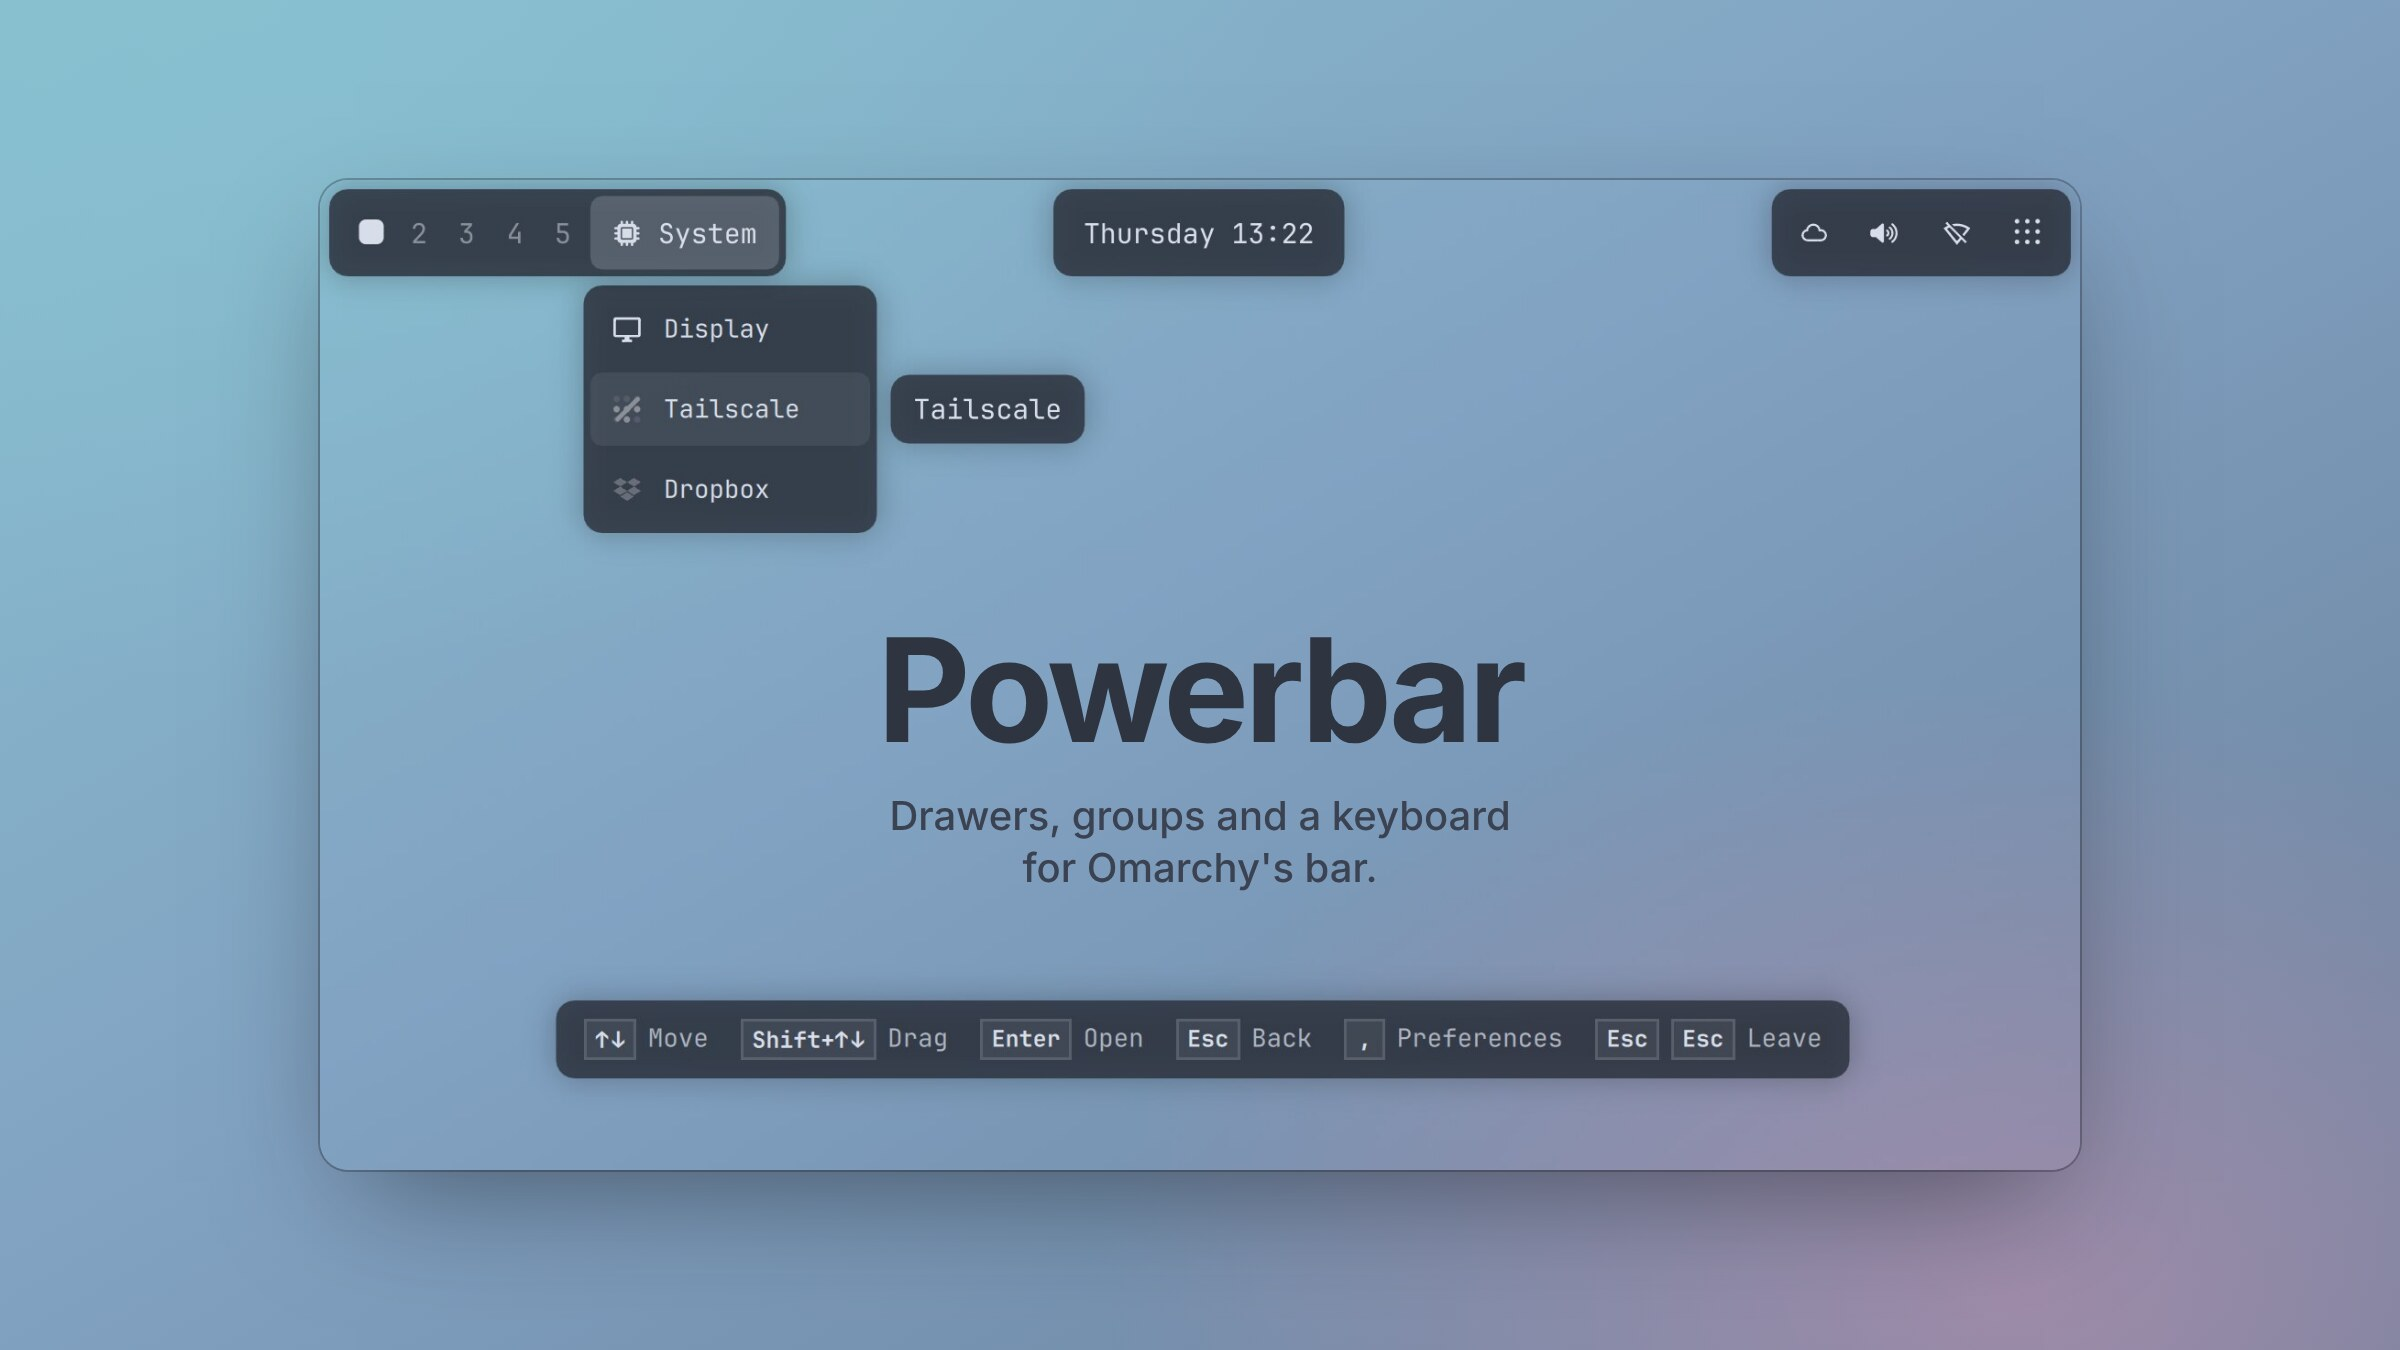
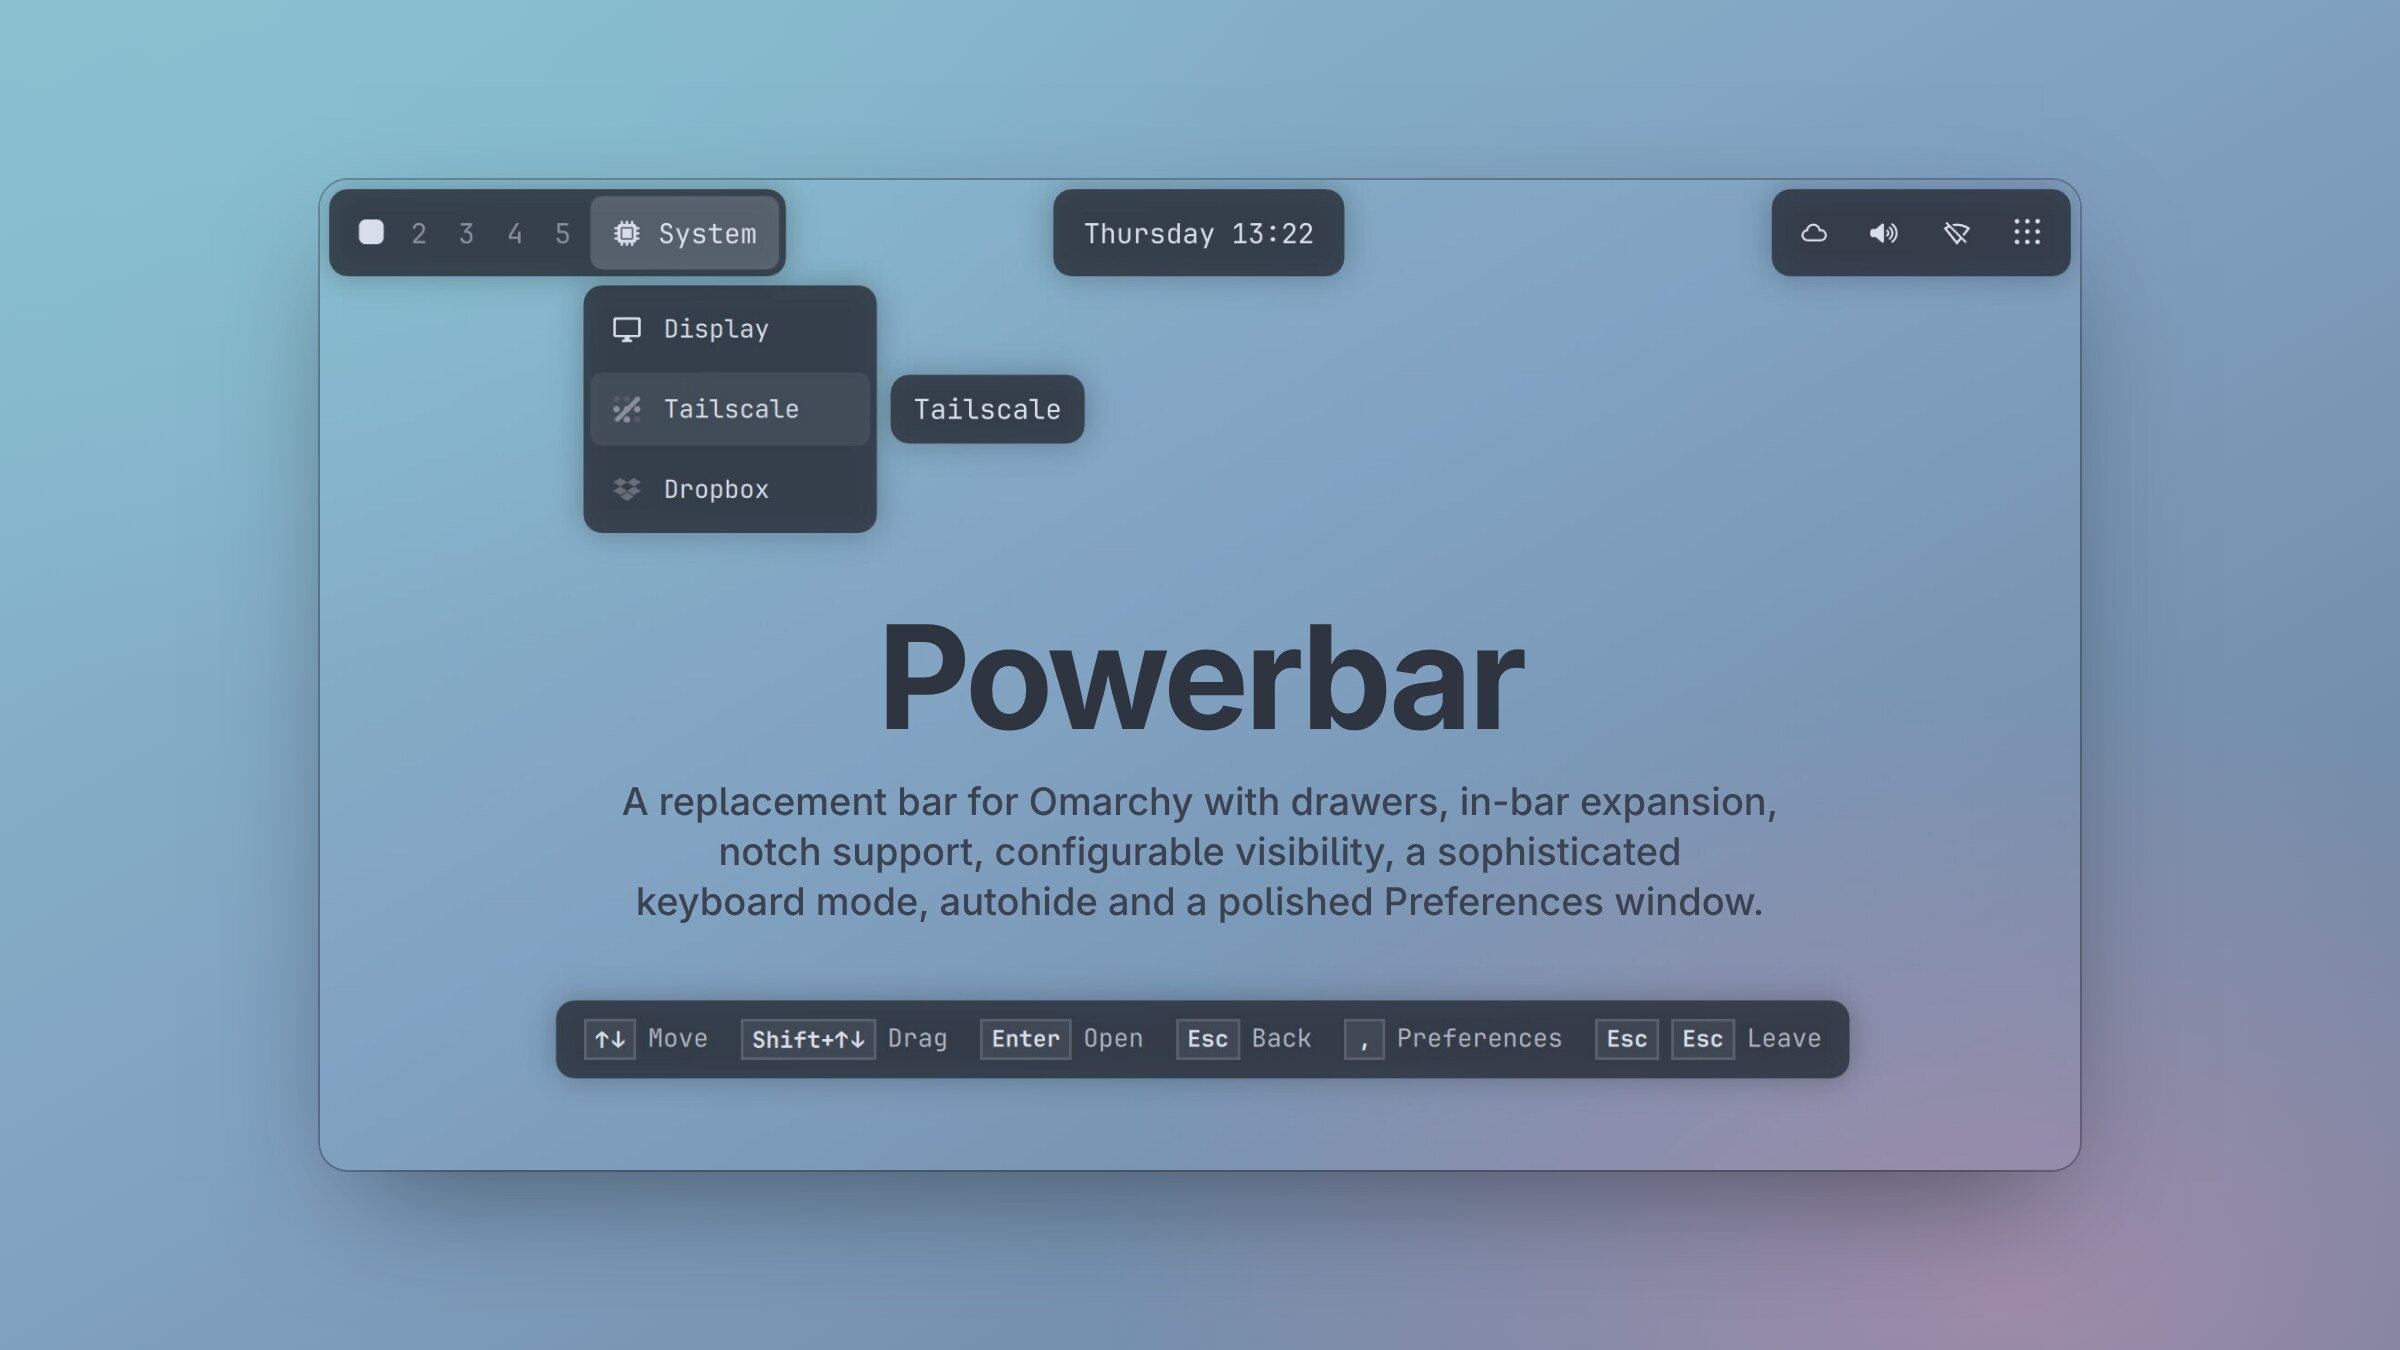
New description, on the card and in the hero
The manifest description and the hero's tagline are now the same line:
"A replacement bar for Omarchy with drawers, in-bar expansion, notch
support, configurable visibility, a sophisticated keyboard mode, autohide
and a polished Preferences window." The README intro says the shortcuts
are offered on the first start, no longer bound.

Changed region(s): [[0.25, 0.5911, 0.75, 0.6844], [0.375, 0.4667, 0.6562, 0.56]]

diff --git a/tools/showcase/card.html b/tools/showcase/card.html
@@ -41,11 +41,11 @@
   }
   .shot { display: block; width: 100%; height: 100% }
   .words {
-    position: absolute; left: 600px; top: 378px; width: 520px;
+    position: absolute; left: 600px; top: 383px; width: 600px;
     transform: translate(-50%, -50%); text-align: center;
   }
   h1 { font-size: 72px; font-weight: 700; letter-spacing: -0.03em; line-height: 1 }
-  p { margin-top: 14px; font-size: 20px; font-weight: 500; line-height: 1.3; color: var(--ink-soft) }
+  p { margin-top: 14px; font-size: 19px; font-weight: 500; line-height: 1.32; text-wrap: balance; color: var(--ink-soft) }
   body.wall .screen, body.wall .words { display: none }
 </style>
 </head>
@@ -54,7 +54,7 @@
   <div class="screen"><img class="shot" src="../../screenshots/hero-nord.jpg" alt=""></div>
   <div class="words">
     <h1>Powerbar</h1>
-    <p>Drawers, groups and a keyboard<br>for Omarchy's bar.</p>
+    <p>A replacement bar for Omarchy with drawers, in-bar expansion, notch support, configurable visibility, a sophisticated keyboard mode, autohide and a polished Preferences window.</p>
   </div>
   <script>if (location.hash === "#wall") document.body.classList.add("wall")</script>
 </body>

diff --git a/docs/behavior/integration.md b/docs/behavior/integration.md
@@ -16,7 +16,7 @@ tests/cli.test.cjs; stock `/usr/share/omarchy/bin/omarchy-bar`,
 
 ## Plugin manifest
 
-- **INTEG-1** `manifest.json` declares `schemaVersion: 1`, `id: "p0werj0int.powerbar"`, `name: "Powerbar"`, `version: "0.9.3"`, author `p0werj0int`, license `MIT`, description `Omarchy's bar plus on-demand widgets, groups, bar styles, autohide, a keyboard mode and a Preferences window.`, `kinds: ["bar"]`, `entryPoints.bar: "Bar.qml"`.
+- **INTEG-1** `manifest.json` declares `schemaVersion: 1`, `id: "p0werj0int.powerbar"`, `name: "Powerbar"`, `version: "0.9.3"`, author `p0werj0int`, license `MIT`, description `A replacement bar for Omarchy with drawers, in-bar expansion, notch support, configurable visibility, a sophisticated keyboard mode, autohide and a polished Preferences window.`, `kinds: ["bar"]`, `entryPoints.bar: "Bar.qml"`.
 - **INTEG-2** The manifest declares `omarchy.clonedFrom: "omarchy.bar"`.
 
 ## Startup

diff --git a/README.md b/README.md
@@ -16,7 +16,7 @@ spacing, with one small button at the far end. From there you can tuck
 widgets away in drawers of two kinds: a Bartender-style strip of live icons
 that slides out beside the bar, or a menu whose rows show each widget's name,
 on its own or next to its icon. Everything below waits until you turn it on
-(only its two keyboard shortcuts are bound for you, where the keys are free),
+(only its two keyboard shortcuts are offered, in a notification on the first start),
 and then behaves the same way every time. Things move with some care, too:
 drawers grow out of the bar and neighbours slide aside for a dragged widget,
 all of it carefully timed, so the bar never feels slow. If you'd rather it
